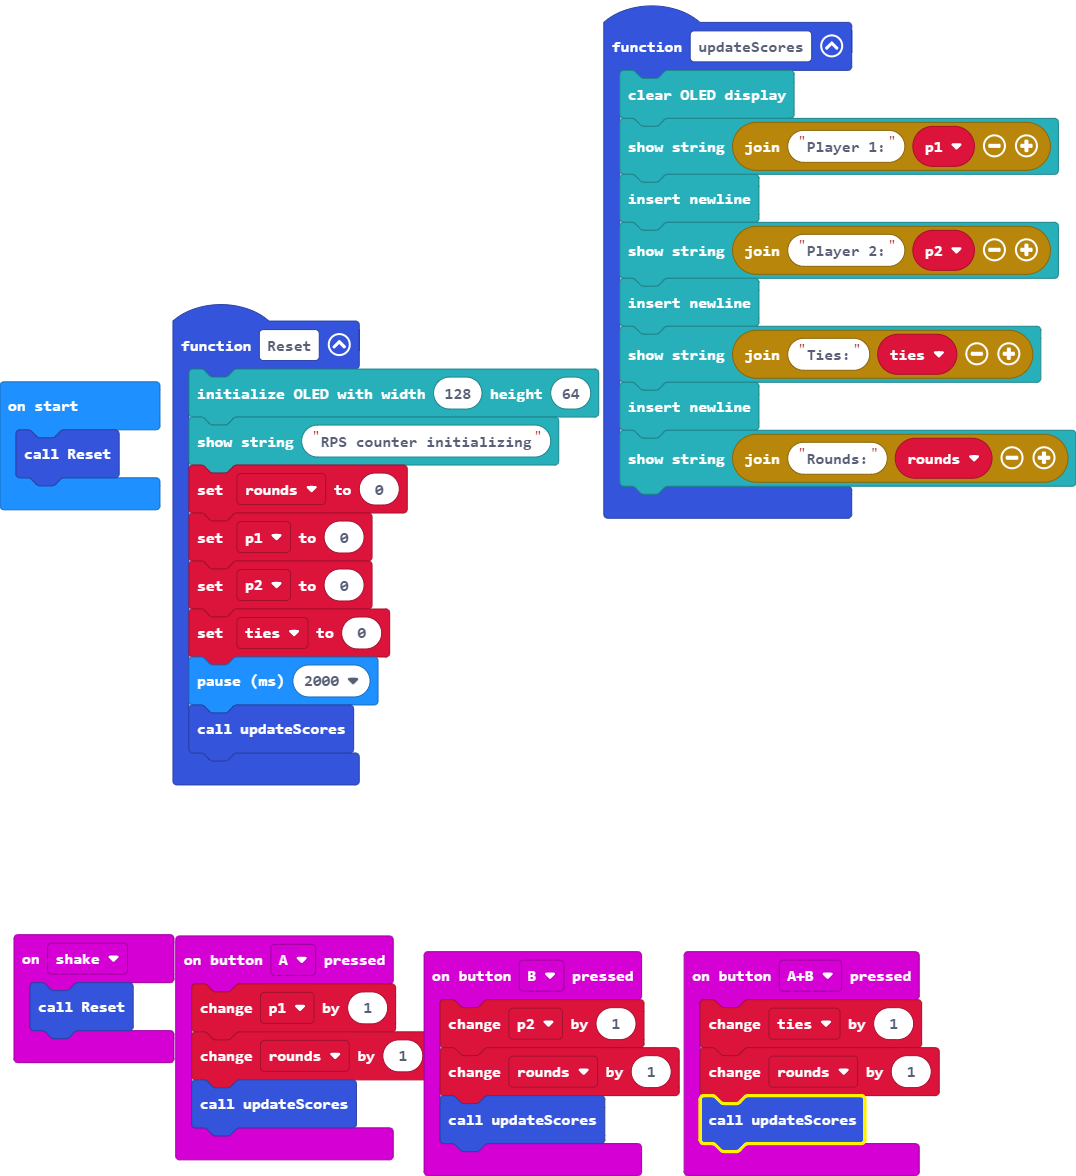
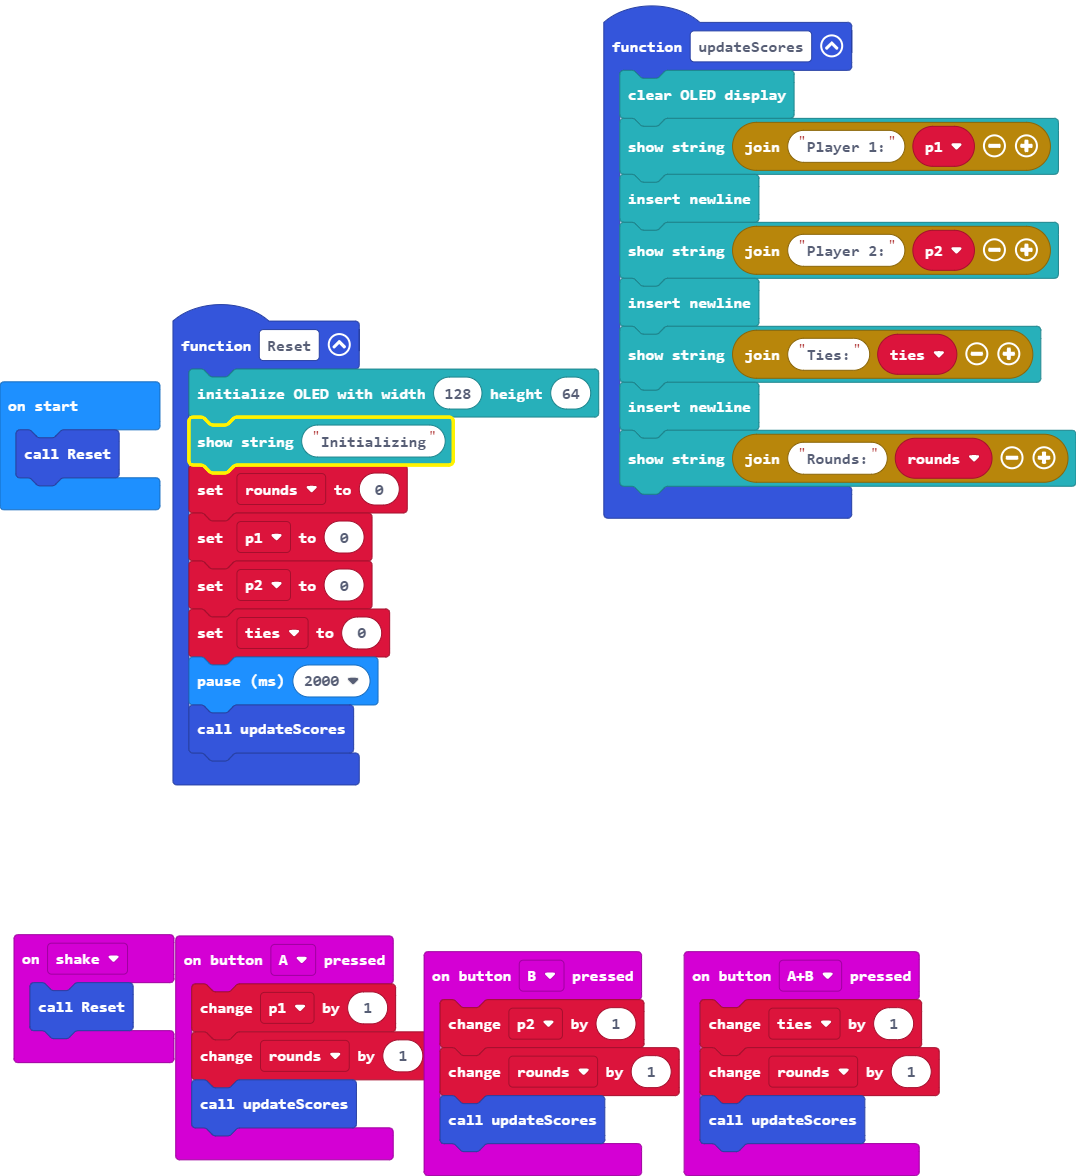
Update main.blocks, main.ts

Changed region(s): [[0.184, 0.3367, 0.5214, 0.398], [0.6441, 0.9184, 0.8281, 0.9796], [0.1533, 0.3673, 0.184, 0.398]]

diff --git a/main.ts b/main.ts
@@ -18,7 +18,7 @@ input.onGesture(Gesture.Shake, function () {
 })
 function Reset () {
     OLED.init(128, 64)
-    OLED.writeStringNewLine("RPS counter initializing")
+    OLED.writeStringNewLine("Initializing")
     rounds = 0
     p1 = 0
     p2 = 0
